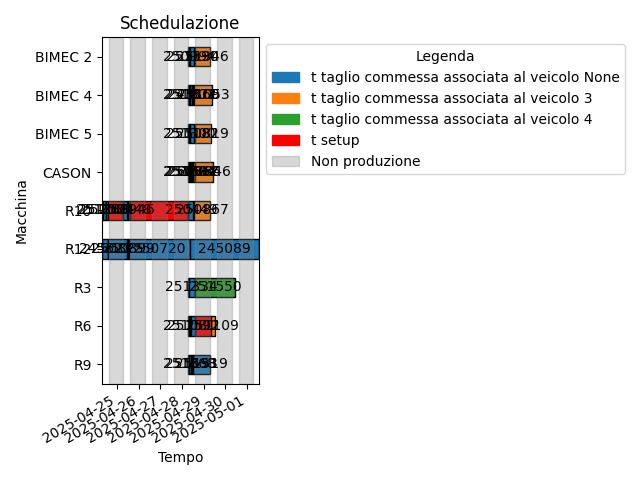
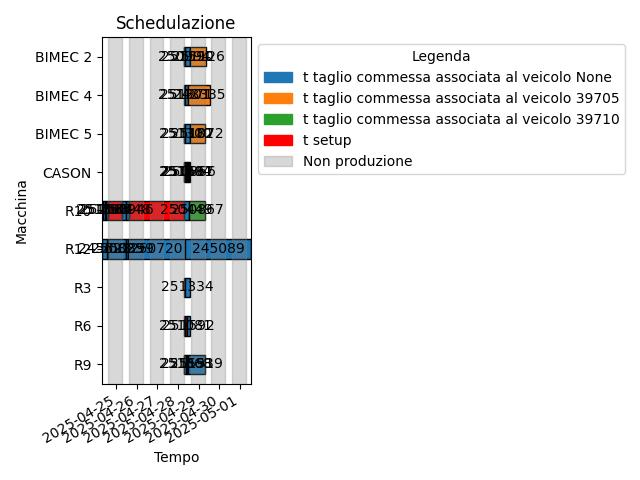
Cambiamenti finali del giorno

Changed region(s): [[0.0938, 0.0312, 0.9688, 0.9688]]

diff --git a/PS-VRP/main.py b/PS-VRP/main.py
@@ -19,7 +19,7 @@ read_excel.read_attrezzaggio_macchine(file_macchine_excel,lista_macchine)
 inizio_schedulazione=lista_macchine[0].data_inizio_schedulazione
 lista_commesse=read_excel.read_excel_commesse(file_commesse_excel,inizio_schedulazione) # creo una lista di oggetti commessa
 read_excel.read_compatibilita(file_commesse_excel,lista_commesse) #aggiungo le compatibilita commessa-macchina alle commesse della lista passata come parametro(lista con tutte le commesse)
-lista_veicoli=read_excel.read_excel_veicoli("PS-VRP/INPUT_TEST/VEICOLI9.xlsx")
+lista_veicoli=read_excel.read_excel_veicoli("PS-VRP/INPUT_TEST/VEICOLI reali prova.xlsx")
 lista_macchine=sorted(lista_macchine,key=lambda macchina:macchina.nome_macchina)
 #print(f'Lista macchine {lista_macchine}, Lista veicoli {lista_veicoli}, Lista_commesse {lista_commesse}')
 
@@ -35,11 +35,11 @@ print(f"{Fore.GREEN}{Style.BRIGHT}COMMESSE SENZA CAMPI MANCANTI (LETTE CORRETTAM
 
 start_time_eur = time.time()
 
-commesse_da_schedulare, commesse_oltre_data, commesse_filtro_zone, commesse_filtro_veicoli = solver.filtro_commesse(lista_commesse, lista_veicoli)
+commesse_da_schedulare, commesse_filtro_zone, commesse_filtro_veicoli = solver.filtro_commesse(lista_commesse, lista_veicoli)
 schedulazione3, f_obj3, causa_fallimento = solver.euristico_costruttivo(commesse_da_schedulare, lista_macchine, lista_veicoli)
 output.write_output_soluzione_euristica(schedulazione3, "PS-VRP/OUTPUT_TEST/euristico_costruttivo.xlsx")
-print(f'Fallimenti euristico costruttivo {len(causa_fallimento)}; Commesse oltre data partenza massima {len(commesse_oltre_data)}; Filtrate per zone {len(commesse_filtro_zone)}; Filtrate per veicoli {len(commesse_filtro_veicoli)}')
-commesse_non_schedulate = causa_fallimento | commesse_oltre_data | commesse_filtro_zone | commesse_filtro_veicoli
+print(f'Fallimenti euristico costruttivo {len(causa_fallimento)}; Filtrate per zone {len(commesse_filtro_zone)}; Filtrate per veicoli {len(commesse_filtro_veicoli)}')
+commesse_non_schedulate = causa_fallimento | commesse_filtro_zone | commesse_filtro_veicoli #| commesse_oltre_data (in caso d'uso, da reinserire eventualmente anche come output della chiamata al solver)
 
 print(f"\n{Fore.RED}{Style.BRIGHT}COMMESSE NON SCHEDULATE: {len(commesse_non_schedulate)}")
 print(f"{Fore.RED}Dettaglio motivi: {commesse_non_schedulate}")

diff --git a/PS-VRP/solver.py b/PS-VRP/solver.py
@@ -72,7 +72,7 @@ def filtro_commesse(lista_commesse:list,lista_veicoli):
     zone_aperte = set([veicolo.zone_coperte for veicolo in lista_veicoli_disponibili])  # set contenente tutte le zone aperte (una lista può contenere duplicati, mentre un set ha elementi unici)
     commesse_da_tagliare = [] #commesse assegnabili in base alle zone
     commesse_da_schedulare = [] #commesse assegnabili in base ai veicoli
-    commesse_oltre_data = {} #commesse da tagliare non schedulate perché oltre data partenza massima veicolo; formato dizionario per unirlo al resto
+    #commesse_oltre_data = {} #commesse da tagliare non schedulate perché oltre data partenza massima veicolo; formato dizionario per unirlo al resto
     for commessa in lista_commesse:
         intersezione = set(commessa.zona_cliente).intersection(zone_aperte)  # calcolo l'intersezione tra l'insieme delle zone della commessa e le zone aperte
         if intersezione:  # se l'intersezione contiene elementi (è diversa dall'insieme vuoto)
@@ -101,7 +101,7 @@ def filtro_commesse(lista_commesse:list,lista_veicoli):
             for commessa in commesse_da_tagliare
             if commessa not in commesse_da_schedulare
         }
-    return commesse_da_schedulare, commesse_oltre_data, commesse_filtro_zone, commesse_filtro_veicoli
+    return commesse_da_schedulare, '''commesse_oltre_data''', commesse_filtro_zone, commesse_filtro_veicoli
 
 def return_schedulazione(commessa: Commessa, macchina:Macchina, minuti_setup, minuti_processamento, minuti_fine_ultima_commessa, inizio_schedulazione, schedulazione):
     id=commessa.id_commessa
